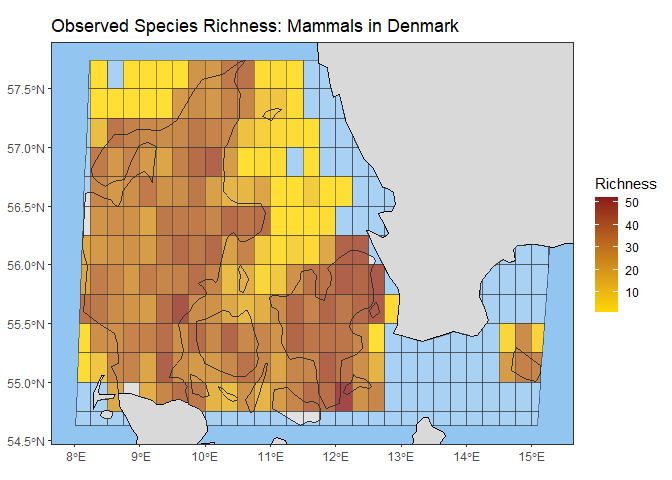
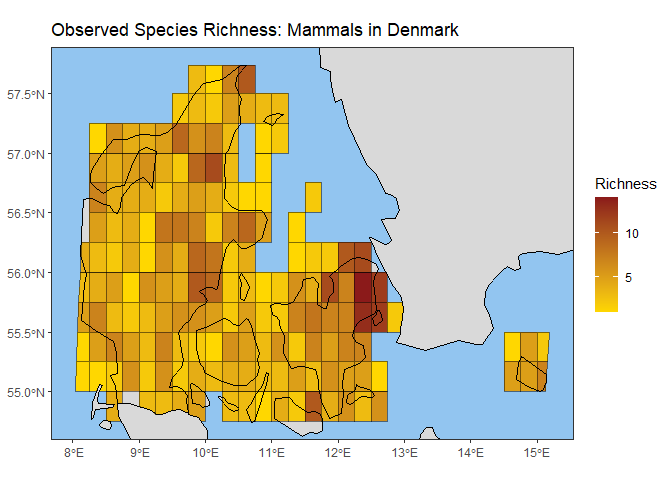
Deploying to gh-pages from @ b-cubed-eu/b3gbi@678d9bf59135951dd695bcde8a60d7863b785a3d 🚀

diff --git a/paper.html b/paper.html
@@ -40,7 +40,7 @@
 <div class="row">
   <main id="main" class="col-md-9"><div class="page-header">
       <img src="logo.png" class="logo" alt=""><h1>Summary</h1>
-      <small class="dont-index">Source: <a href="https://github.com/b-cubed-eu/b3gbi/blob/v0.9.2/paper.md" class="external-link"><code>paper.md</code></a></small>
+      <small class="dont-index">Source: <a href="https://github.com/b-cubed-eu/b3gbi/blob/main/paper.md" class="external-link"><code>paper.md</code></a></small>
     </div>
 
 
@@ -54,13 +54,37 @@
 <p>While packages like <code>rgbif</code> [@wallace2020] interface with GBIF data, and packages like <code>iNEXT</code> [@inext] calculate specific diversity metrics (such as Hill numbers), there is a distinct gap for a comprehensive, user-friendly framework that takes raw data cubes and automates the entire process of spatial boundary clipping, multi-scale grid aggregation, indicator calculation, and visualization. Furthermore, assessing the reliability of these indicators is critical. <code>b3gbi</code> addresses this need by integrating seamlessly with the <code>dubicube</code> package [@dubicube] to perform cube-level bootstrapping, allowing users to calculate robust confidence intervals that capture the underlying sampling uncertainty of the original occurrence data. While researchers frequently build ad-hoc scripts to process occurrence cubes, <code>b3gbi</code> provides a unified, optimized framework that eliminates inconsistent, manual data-handling pipelines, ensuring cross-project reproducibility for international policy reporting.</p>
 </div>
 <div class="section level1">
+<h1 id="state-of-the-field">State of the Field<a class="anchor" aria-label="anchor" href="#state-of-the-field"></a></h1>
+<p>Calculating biodiversity metrics from raw species observations is a common workflow in ecology, supported by established packages such as <code>vegan</code> [@vegan] and <code>iNEXT</code> [@inext]. However, these packages operate on community ecology matrices (e.g., site-by-species matrices) and do not support spatial coordinate grids, boundaries, or spatiotemporal occurrence cubes natively.</p>
+<ul><li>
+<strong><code>vegan</code> [@vegan]</strong> is the standard R package for community ecology diversity metrics (e.g., Shannon and Simpson diversity indices, Pielou evenness). However, it does not handle spatial grid mapping (EEA, MGRS, ISEA3H), spatial clipping, multi-scale grid aggregation, or spatiotemporal trend mapping.</li>
+<li>
+<strong><code>iNEXT</code> [@inext]</strong> specializes in Hill numbers (rarefaction/extrapolation). While <code>b3gbi</code> integrates <code>iNEXT</code>’s core routines to compute Hill numbers and their associated confidence intervals, <code>iNEXT</code> on its own does not provide wrapper functions to ingest spatiotemporal data cubes, clip boundaries, aggregate grid resolutions, or compute other non-Hill metrics (e.g., area-based rarity, species range, turnover).</li>
+<li>
+<strong><code>ebvcube</code> [@ebvcube]</strong> is designed to access, query, and visualize Essential Biodiversity Variables (EBVs) stored in netCDF structures, but it does not process Darwin Core-aligned spatiotemporal occurrence data cubes (as retrieved from GBIF) or calculate taxonomic, evenness, and turnover indicators from raw occurrence lists.</li>
+<li>
+<strong><code>b3verse</code> siblings</strong>: Sibling packages within the <code>b3verse</code> ecosystem cover complementary indicator types: <code>pdindicatoR</code> focuses on phylogenetic diversity indicators, and <code>impIndicator</code> focuses on alien species impacts. <code>b3gbi</code> serves as the core, general-purpose library for taxonomic diversity, evenness, rarity, and occupancy indicators.</li>
+</ul><div class="section level2">
+<h2 id="build-vs-contribute-justification">Build vs. Contribute Justification<a class="anchor" aria-label="anchor" href="#build-vs-contribute-justification"></a></h2>
+<p>Contributing these features directly to <code>vegan</code> or <code>iNEXT</code> would be inappropriate, as those packages are mathematically focused libraries for community ordination and Hill number estimation, respectively. Extending them to parse raw spatiotemporal occurrence cubes, manage geographical coordinate transformations (e.g., converting EEA codes to coordinates), and handle spatial geometries would expand their scopes excessively.</p>
+<p>Designing <code>b3gbi</code> as a standalone, modular package allows first-class support for the “species occurrence cube” data standard [@desmet2023] developed by the B-Cubed project. It also enables seamless, decoupled integration with sibling packages like <code>dubicube</code> [@dubicube] for cube-level bootstrapping (estimating indicator uncertainty) and <code>gcube</code> for synthetic cube simulations.</p>
+</div>
+</div>
+<div class="section level1">
 <h1 id="software-design-and-workflow">Software Design and Workflow<a class="anchor" aria-label="anchor" href="#software-design-and-workflow"></a></h1>
-<p>The <code>b3gbi</code> package is designed around a clean, three-step pipeline:</p>
-<pre><code>  +--------------+       +-------------------+       +-----------------------+
-  | Ingestion &amp;  |       |     Indicator     |       |      Uncertainty      |
-  | Validation   | ----&gt; |    Calculation    | ----&gt; |      Estimation       |
-  | process_cube |       |  (wrapper funcs)  |       |        add_ci         |
-  +--------------+       +-------------------+       +-----------------------+</code></pre>
+<p>The <code>b3gbi</code> package is designed around a clean, four-step pipeline:</p>
+<pre><code>  +------------------+      +-------------------+
+  | 1. Ingestion &amp;   |      |   2. Indicator    |
+  |    Validation    | ---&gt; |    Calculation    |
+  |   process_cube   |      |  (wrapper funcs)  |
+  +------------------+      +-------------------+
+                                      |
+                                      v
+  +------------------+      +-------------------+
+  | 4. Visualization |      |  3. Uncertainty   |
+  |   plot method    | &lt;--- |    Estimation     |
+  |                  |      |      add_ci       |
+  +------------------+      +-------------------+</code></pre>
 <ol style="list-style-type: decimal"><li>
 <strong>Ingestion &amp; Validation</strong>: The <code><a href="reference/process_cube.html">process_cube()</a></code> function imports spatiotemporal species occurrence cubes (as CSV files), validates the required fields, auto-detects grid types (including gridded coordinate columns), and filters the data by year. The resulting output is structured into a <code>processed_cube</code> class.</li>
 <li>
@@ -72,11 +96,29 @@
 <li>
 <strong>Completeness &amp; Rarity</strong>: Sample completeness/coverage (<code>completeness</code>), abundance-based rarity (<code>ab_rarity</code>), and area-based rarity (<code>area_rarity</code>).</li>
 <li>
-<strong>Occupancy &amp; Dynamics</strong>: Species occurrences (<code>spec_occ</code>), species range (<code>spec_range</code>), relative occupancy (<code>relative_occupancy</code>), and species turnover (<code>occ_turnover</code>).</li>
+<strong>Occurrence &amp; Density</strong>: Total occurrences (<code>total_occ</code>) and occurrence density (<code>occ_density</code>).</li>
+<li>
+<strong>Occupancy &amp; Dynamics</strong>: Species occurrences (<code>spec_occ</code>), species range (<code>spec_range</code>), relative occupancy (<code>relative_occupancy</code>), species turnover (<code>occ_turnover</code>), and mean year of occurrence (<code>newness</code>).</li>
 </ul></li>
 <li>
-<strong>Uncertainty &amp; Visualization</strong>: Calling the generic <code><a href="https://rdrr.io/r/graphics/plot.default.html" class="external-link">plot()</a></code> function on an indicator object automatically generates clean, publishable map or time-series plots. To calculate uncertainty, the user passes a temporal indicator object to <code><a href="reference/add_ci.html">add_ci()</a></code>. Decoupling the intensive bootstrapping process from initial indicator calculations allows for quick data exploration before executing heavy simulations. The package includes a minimalist, internal spatiotemporal occurrence cube dataset, allowing users to execute and verify the entire pipeline out of the box.</li>
+<strong>Uncertainty Estimation</strong>: Uncertainty can be calculated by passing an indicator object to <code><a href="reference/add_ci.html">add_ci()</a></code>. The package supports both cube-level bootstrapping (default, utilizing <code>dubicube</code>) and indicator-level bootstrapping. Decoupling the intensive bootstrapping process from initial indicator calculations allows for quick data exploration before executing heavy simulations.</li>
+<li>
+<strong>Visualization</strong>: Calling the generic <code><a href="https://rdrr.io/r/graphics/plot.default.html" class="external-link">plot()</a></code> function on an indicator object automatically generates clean, publishable map or time-series plots. The package includes a minimalist, internal spatiotemporal occurrence cube dataset, allowing users to execute, visualize, and verify the entire pipeline out of the box.</li>
 </ol></div>
+<div class="section level1">
+<h1 id="research-impact-statement">Research Impact Statement<a class="anchor" aria-label="anchor" href="#research-impact-statement"></a></h1>
+<p>The <code>b3gbi</code> package provides evidence of both realized impact and credible near-term significance for researchers and policy reporting:</p>
+<ul><li>
+<strong>Core of the B-Cubed Ecosystem</strong>: <code>b3gbi</code> is the central indicator package of the European Union’s Horizon Europe B-Cubed project (Grant Agreement No. 101059592), which aims to standardize biodiversity workflows for policy reporting.</li>
+<li>
+<strong>Policy Reporting Workflows</strong>: The package computes taxonomic, evenness, rarity, and occupancy indicators that map directly to international policy frameworks, including the Kunming-Montreal Global Biodiversity Framework (GBF) and the EU Biodiversity Strategy for 2030.</li>
+<li>
+<strong>FAIR Compliance</strong>: <code>b3gbi</code> outputs are mapped to standard vocabularies (Darwin Core MeasurementOrFact extension, ISO 8601, and GBIF Data Cube specifications) as documented in <code>FAIR_MAPPING.md</code>. This ensures that generated indicators comply with the Research Data Alliance (RDA) FAIR Data Maturity Model standards (specifically RDA-I2-01D and RDA-I3-03M), allowing for seamless sharing and aggregation in global repositories.</li>
+<li>
+<strong>Robust &amp; Flexible Uncertainty Estimation</strong>: A major limitation in existing biodiversity reporting is the lack of uncertainty quantification. By integrating with <code>dubicube</code>, <code>b3gbi</code> enables researchers to calculate robust confidence intervals via cube-level bootstrapping, while also offering faster, internal bootstrapping at the indicator level for rapid, resource-efficient data exploration.</li>
+<li>
+<strong>Community Adoption and Case Studies</strong>: The package has been integrated directly into the analytical workflows of multiple case studies within the B-Cubed project. Additionally, community adoption has been supported by developer-led training webinars to help researchers transition from raw occurrence data cubes to reproducible policy metrics. To lower the barrier to entry for non-programmer stakeholders, a Shiny-based graphical user interface (GUI) was initiated during a project hackathon and is maintained in the <a href="https://github.com/b-cubed-eu/b3gbi-gui" class="external-link">b-cubed-eu/b3gbi-gui</a> repository.</li>
+</ul></div>
 <div class="section level1">
 <h1 id="uncertainty-estimation--statistical-limitations">Uncertainty Estimation &amp; Statistical Limitations<a class="anchor" aria-label="anchor" href="#uncertainty-estimation--statistical-limitations"></a></h1>
 <p>When calculating uncertainty via <code><a href="reference/add_ci.html">add_ci()</a></code>, users can choose between cube-level bootstrapping (resampling original occurrences) and indicator-level bootstrapping (resampling calculated values) [@dubicube]. Cube-level bootstrapping is the default and most robust level, and <code><a href="reference/add_ci.html">add_ci()</a></code> automatically customizes the bootstrap settings based on the indicator type: - <strong>Hill Numbers</strong>: Because Hill numbers are calculated via <code>iNEXT</code>’s internal rarefaction/extrapolation engine, <code><a href="reference/add_ci.html">add_ci()</a></code> delegates directly to <code>iNEXT</code> to avoid double-bootstrapping. - <strong>Bounded Indicators</strong>: Evenness indicators automatically use logit transformation to keep confidence intervals within the valid <code>[0, 1]</code> bounds.</p>

diff --git a/index.html b/index.html
@@ -130,7 +130,7 @@
 <span></span>
 <span><span class="co"># 3. Plot the indicator map</span></span>
 <span><span class="fu"><a href="https://rdrr.io/r/graphics/plot.default.html" class="external-link">plot</a></span><span class="op">(</span><span class="va">map_obs_rich_mammals</span>, title <span class="op">=</span> <span class="st">"Observed Species Richness: Mammals in Denmark"</span><span class="op">)</span></span></code></pre></div>
-<p><img src="reference/figures/README-example-1.png" width="100%"></p>
+<p><img src="reference/figures/README-example-1.png" alt="" width="100%"></p>
 <p>For a more in-depth introduction, see the tutorial: <a href="https://b-cubed-eu.github.io/b3gbi/articles/b3gbi.html" class="uri">https://b-cubed-eu.github.io/b3gbi/articles/b3gbi.html</a>.</p>
 </div>
 </div>
@@ -180,11 +180,10 @@
 <li><a href="https://www.repostatus.org/#wip" class="external-link"><img src="https://www.repostatus.org/badges/latest/active.svg" alt="repo status"></a></li>
 <li><a href="https://github.com/b-cubed-eu/b3gbi/releases" class="external-link"><img src="https://img.shields.io/github/release/b-cubed-eu/b3gbi.svg?include_prereleases" alt="Release"></a></li>
 <li><a href="https://b-cubed-eu.r-universe.dev/b3gbi" class="external-link"><img src="https://b-cubed-eu.r-universe.dev/b3gbi/badges/version" alt="b3gbi status badge"></a></li>
-<li><a href="https://CRAN.R-project.org/package=b3gbi" class="external-link"><img src="https://www.r-pkg.org/badges/version/b3gbi" alt="CRAN status"></a></li>
 <li><a href="https://github.com/b-cubed-eu/b3gbi/actions/workflows/R-CMD-check.yaml" class="external-link"><img src="https://github.com/b-cubed-eu/b3gbi/actions/workflows/R-CMD-check.yaml/badge.svg?branch=main" alt="R-CMD-check"></a></li>
 <li><a href="https://app.codecov.io/gh/b-cubed-eu/b3gbi/" class="external-link"><img src="https://codecov.io/gh/b-cubed-eu/b3gbi/branch/main/graph/badge.svg" alt="codecov"></a></li>
 <li><a href="https://b-cubed-eu.r-universe.dev/" class="external-link"><img src="https://b-cubed-eu.r-universe.dev/badges/:name?color=6CDDB4" alt="name status badge"></a></li>
-<li><a href="https://doi.org/10.5281/zenodo.20763709" class="external-link"><img src="https://zenodo.org/badge/693214449.svg" alt="DOI"></a></li>
+<li><a href="https://zenodo.org/badge/latestdoi/693214449" class="external-link"><img src="https://zenodo.org/badge/693214449.svg" alt="DOI"></a></li>
 </ul>
 </div>
 

diff --git a/CODE_OF_CONDUCT.html b/CODE_OF_CONDUCT.html
@@ -40,7 +40,7 @@
 <div class="row">
   <main id="main" class="col-md-9"><div class="page-header">
       <img src="logo.png" class="logo" alt=""><h1>Contributor Covenant Code of Conduct</h1>
-      <small class="dont-index">Source: <a href="https://github.com/b-cubed-eu/b3gbi/blob/v0.9.2/.github/CODE_OF_CONDUCT.md" class="external-link"><code>.github/CODE_OF_CONDUCT.md</code></a></small>
+      <small class="dont-index">Source: <a href="https://github.com/b-cubed-eu/b3gbi/blob/main/.github/CODE_OF_CONDUCT.md" class="external-link"><code>.github/CODE_OF_CONDUCT.md</code></a></small>
     </div>
 
 <div id="contributor-covenant-code-of-conduct" class="section level1">

diff --git a/CONTRIBUTING.html b/CONTRIBUTING.html
@@ -40,7 +40,7 @@
 <div class="row">
   <main id="main" class="col-md-9"><div class="page-header">
       <img src="logo.png" class="logo" alt=""><h1>Contributing to b3gbi</h1>
-      <small class="dont-index">Source: <a href="https://github.com/b-cubed-eu/b3gbi/blob/v0.9.2/.github/CONTRIBUTING.md" class="external-link"><code>.github/CONTRIBUTING.md</code></a></small>
+      <small class="dont-index">Source: <a href="https://github.com/b-cubed-eu/b3gbi/blob/main/.github/CONTRIBUTING.md" class="external-link"><code>.github/CONTRIBUTING.md</code></a></small>
     </div>
 
 <div id="contributing-to-b3gbi" class="section level1">

diff --git a/FAIR_MAPPING.html b/FAIR_MAPPING.html
@@ -40,7 +40,7 @@
 <div class="row">
   <main id="main" class="col-md-9"><div class="page-header">
       <img src="logo.png" class="logo" alt=""><h1>FAIR Data Specification and Vocabulary Mapping</h1>
-      <small class="dont-index">Source: <a href="https://github.com/b-cubed-eu/b3gbi/blob/v0.9.2/FAIR_MAPPING.md" class="external-link"><code>FAIR_MAPPING.md</code></a></small>
+      <small class="dont-index">Source: <a href="https://github.com/b-cubed-eu/b3gbi/blob/main/FAIR_MAPPING.md" class="external-link"><code>FAIR_MAPPING.md</code></a></small>
     </div>
 
 <div id="fair-data-specification-and-vocabulary-mapping" class="section level1">

diff --git a/LICENSE.html b/LICENSE.html
@@ -40,7 +40,7 @@
 <div class="row">
   <main id="main" class="col-md-9"><div class="page-header">
       <img src="logo.png" class="logo" alt=""><h1>MIT License</h1>
-      <small class="dont-index">Source: <a href="https://github.com/b-cubed-eu/b3gbi/blob/v0.9.2/LICENSE.md" class="external-link"><code>LICENSE.md</code></a></small>
+      <small class="dont-index">Source: <a href="https://github.com/b-cubed-eu/b3gbi/blob/main/LICENSE.md" class="external-link"><code>LICENSE.md</code></a></small>
     </div>
 
 <div id="mit-license" class="section level1">

diff --git a/articles/b3gbi.html b/articles/b3gbi.html
@@ -74,7 +74,7 @@
                         <h4 data-toc-skip class="author">Shawn Dove</h4>
             
       
-      <small class="dont-index">Source: <a href="https://github.com/b-cubed-eu/b3gbi/blob/v0.9.2/vignettes/b3gbi.Rmd" class="external-link"><code>vignettes/b3gbi.Rmd</code></a></small>
+      <small class="dont-index">Source: <a href="https://github.com/b-cubed-eu/b3gbi/blob/main/vignettes/b3gbi.Rmd" class="external-link"><code>vignettes/b3gbi.Rmd</code></a></small>
       <div class="d-none name"><code>b3gbi.Rmd</code></div>
     </div>
 

diff --git a/articles/uncertainty.html b/articles/uncertainty.html
@@ -74,7 +74,7 @@
                         <h4 data-toc-skip class="author">Shawn Dove</h4>
             
       
-      <small class="dont-index">Source: <a href="https://github.com/b-cubed-eu/b3gbi/blob/v0.9.2/vignettes/uncertainty.Rmd" class="external-link"><code>vignettes/uncertainty.Rmd</code></a></small>
+      <small class="dont-index">Source: <a href="https://github.com/b-cubed-eu/b3gbi/blob/main/vignettes/uncertainty.Rmd" class="external-link"><code>vignettes/uncertainty.Rmd</code></a></small>
       <div class="d-none name"><code>uncertainty.Rmd</code></div>
     </div>
 

diff --git a/authors.html b/authors.html
@@ -61,7 +61,7 @@
 
     <div class="section level2">
       <h2 id="citation">Citation</h2>
-      <p><small class="dont-index">Source: <a href="https://github.com/b-cubed-eu/b3gbi/blob/v0.9.2/DESCRIPTION" class="external-link"><code>DESCRIPTION</code></a></small></p>
+      <p><small class="dont-index">Source: <a href="https://github.com/b-cubed-eu/b3gbi/blob/main/DESCRIPTION" class="external-link"><code>DESCRIPTION</code></a></small></p>
 
       <p>Dove S (2026).
 <em>b3gbi: General Biodiversity Indicators for Biodiversity Data Cubes</em>.

diff --git a/news/index.html b/news/index.html
@@ -40,7 +40,7 @@
 <div class="row">
   <main id="main" class="col-md-9"><div class="page-header">
       <img src="../logo.png" class="logo" alt=""><h1>Changelog</h1>
-      <small>Source: <a href="https://github.com/b-cubed-eu/b3gbi/blob/v0.9.2/NEWS.md" class="external-link"><code>NEWS.md</code></a></small>
+      <small>Source: <a href="https://github.com/b-cubed-eu/b3gbi/blob/main/NEWS.md" class="external-link"><code>NEWS.md</code></a></small>
     </div>
 
     <div class="section level2">

diff --git a/reference/add_ci.html b/reference/add_ci.html
@@ -48,7 +48,7 @@ CI calculation process."><meta property="og:image" content="https://b-cubed-eu.g
 <div class="row">
   <main id="main" class="col-md-9"><div class="page-header">
       <img src="../logo.png" class="logo" alt=""><h1>Add Confidence Intervals to an Indicator Object</h1>
-      <small class="dont-index">Source: <a href="https://github.com/b-cubed-eu/b3gbi/blob/v0.9.2/R/add_ci.R" class="external-link"><code>R/add_ci.R</code></a></small>
+      <small class="dont-index">Source: <a href="https://github.com/b-cubed-eu/b3gbi/blob/main/R/add_ci.R" class="external-link"><code>R/add_ci.R</code></a></small>
       <div class="d-none name"><code>add_ci.Rd</code></div>
     </div>
 

diff --git a/reference/area_rarity_map.html b/reference/area_rarity_map.html
@@ -42,7 +42,7 @@ over a gridded map or as a time series (see 'Details' for more information)."><m
 <div class="row">
   <main id="main" class="col-md-9"><div class="page-header">
       <img src="../logo.png" class="logo" alt=""><h1>Calculate Rarity Over Time or Space</h1>
-      <small class="dont-index">Source: <a href="https://github.com/b-cubed-eu/b3gbi/blob/v0.9.2/R/indicator_wrappers.R" class="external-link"><code>R/indicator_wrappers.R</code></a></small>
+      <small class="dont-index">Source: <a href="https://github.com/b-cubed-eu/b3gbi/blob/main/R/indicator_wrappers.R" class="external-link"><code>R/indicator_wrappers.R</code></a></small>
       <div class="d-none name"><code>area_rarity_map.Rd</code></div>
     </div>
 